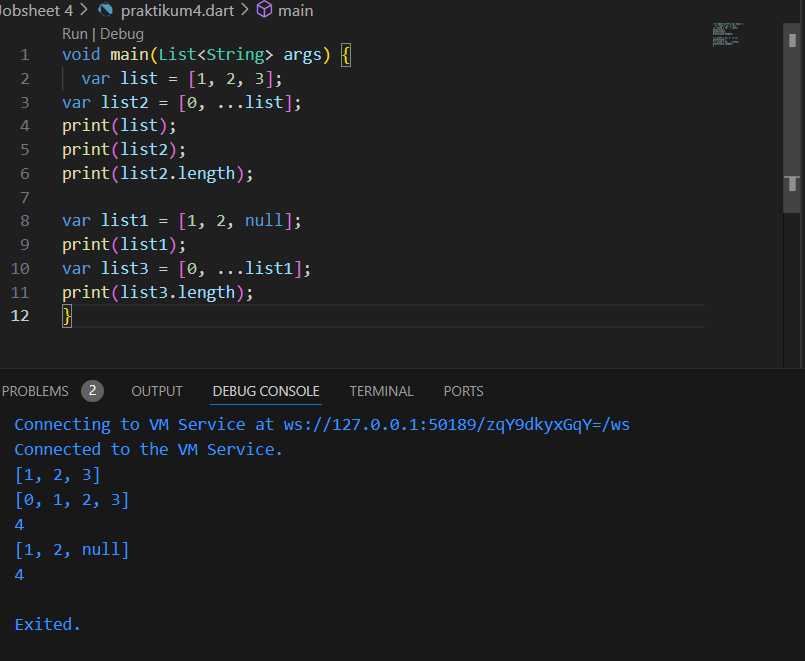
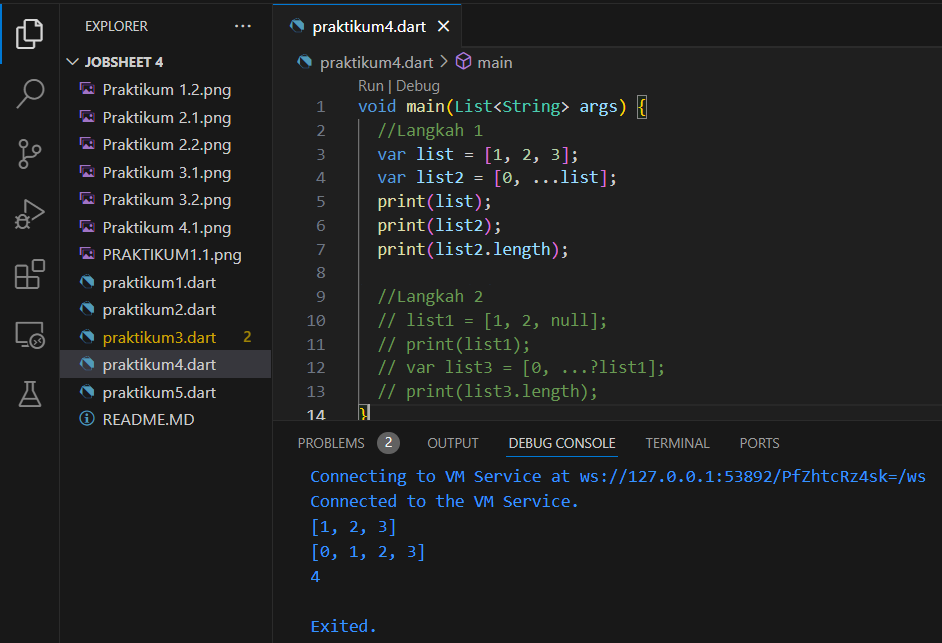
Perubahan yang benar

diff --git a/Jobsheet 4/praktikum4.dart b/Jobsheet 4/praktikum4.dart
@@ -1,12 +1,22 @@
 void main(List<String> args) {
+  //Langkah 1
   var list = [1, 2, 3];
-var list2 = [0, ...list];
-print(list);
-print(list2);
-print(list2.length);
+  var list2 = [0, ...list];
+  print(list);
+  print(list2);
+  print(list2.length);
 
-var list1 = [1, 2, null];
-print(list1);
-var list3 = [0, ...list1];
-print(list3.length);
+  //Langkah 3
+  var list1 = [1, 2, null];
+  print(list1);
+  var list3 = [0, ...list1];
+  print(list3.length);
+
+  var list4 = [2241720085, ...?list];
+  print(list4);
+
+  //Langkah 4
+  var promoActive = false;
+  var nav = ['Home', 'Furniture', 'Plants', if (promoActive) 'Outlet'];
+  print(nav);
 }

diff --git a/Jobsheet 4/praktikum5.dart b/Jobsheet 4/praktikum5.dart
@@ -1,0 +1,23 @@
+(int, int) tukar((int, int) record) {
+  var (a, b) = record;
+  return (b, a);
+}
+
+void main(List<String> args) {
+  var record = ('first', a: 2, b: true, 'last');
+  print(record);
+  var hasil = tukar((2, 3));
+  print(hasil);
+
+    // Record type annotation in a variable declaration:
+  (String, int) mahasiswa = ('Fajar Bayu Kusuma', 2241720085);
+  print(mahasiswa);
+
+  //Langkah 5
+  var mahasiswa2 = ('Fajar Bayu Kusuma', a: 2241720085, b: true, 'last');
+
+  print(mahasiswa2.$1); // Prints 'first'
+  print(mahasiswa2.a); // Prints 2
+  print(mahasiswa2.b); // Prints true
+  print(mahasiswa2.$2); // Prints 'last'
+}

diff --git a/Jobsheet 4/praktikum1.dart b/Jobsheet 4/praktikum1.dart
@@ -9,7 +9,8 @@ void main(List<String> args) {
   assert(list[1] == 1);
   print(list[1]);
 
-  List<String?> listA = List<String?>.filled(5, null); // Membuat list dengan 5 elemen yang nilainya null
+  List<String?> listA = List<String?>.filled(
+      5, null); // Membuat list dengan 5 elemen yang nilainya null
   listA[0] = 'Fajar Bayu Kusuma'; //indeks pertama dengan nama
   listA[1] = '2241720085'; //indeks kedua dengan NIM
 

diff --git a/Jobsheet 4/README.MD b/Jobsheet 4/README.MD
@@ -59,3 +59,58 @@ tidak terjadi eror, hasilnya seperti ini
 - Langkah 3 \
 Sintaks Code
  ![Praktikum 4](./Praktikum%203.2.png "Praktikum 4")
+ eror terjadi kerna tidak ada type data pada vriable list1, sehingga saat akan di running mengalama eror, lalu karena list ini memiliki nilai int yang pasti dan bilangan bulat, maka tidak perlu menggunakan tanda ? atau safety null.
+ Pembenaran Kode
+![Praktikum 4](./Praktikum%203.2.png "Praktikum 4")
+
+---
+**Praktikum 5**
+- Langkah 1 dan 2 \
+tidak terjadi eror, hasilnya seperti ini
+![Praktikum 5](./Praktikum%205.1.png "Praktikum 5")
+
+- Langkah 3 \
+Sintaks Code
+ ![Praktikum 5](./Praktikum%203.2.png "Praktikum 5")
+ eror terjadi kerna tidak ada type data pada vriable list1, sehingga saat akan di running mengalama eror, lalu karena list ini memiliki nilai int yang pasti dan bilangan bulat, maka tidak perlu menggunakan tanda ? atau safety null.
+ Pembenaran Kode
+![Praktikum 5](./Praktikum%203.2.png "Praktikum 5")
+
+---
+**2. Jelaskan yang dimaksud Functions dalam bahasa Dart!**
+---
+- Jawab Dalam bahasa Dart, Functions (fungsi) adalah blok kode yang dapat menerima argumen, melakukan operasi, dan mengembalikan nilai. Fungsi digunakan untuk mengorganisir dan mengelompokkan kode menjadi unit yang dapat digunakan dan dipanggil secara berulang.
+---
+**3. Jelaskan jenis-jenis parameter di Functions beserta contoh sintaksnya!**
+--
+- jawab Dalam bahasa Dart, terdapat dua jenis parameter yang dapat digunakan dalam deklarasi fungsi, yaitu parameter posisi (positional parameter) dan parameter bernama (named parameter).
+Parameter Posisi (Positional Parameter):
+
+- Parameter posisi adalah parameter yang dideklarasikan berdasarkan urutan posisinya saat memanggil fungsi.
+
+- Argumen yang dikirimkan saat memanggil fungsi akan diteruskan ke parameter posisi sesuai dengan urutan posisinya.
+
+- Parameter posisi bersifat wajib diisi saat memanggil fungsi, kecuali jika ada nilai default yang ditentukan.
+
+- Parameter Bernama (Named Parameter):
+
+- Parameter bernama adalah parameter yang dideklarasikan dengan menggunakan sintaks nama_parameter: nilai.
+
+- Ketika memanggil fungsi, argumen dikirimkan dengan menyebutkan nama parameternya, diikuti dengan tanda titik dua (:) dan nilai yang ingin diteruskan. Penggunaan parameter bernama bersifat opsional dan dapat diabaikan saat memanggil fungsi jika ada nilai default yang ditentukan.
+
+---
+**4. Jelaskan maksud Functions sebagai first-class objects beserta contoh sintaknya!**
+- jawaban 
+- Dalam bahasa pemrograman, konsep "first-class objects" (objek kelas satu) mengacu pada kemampuan untuk memperlakukan fungsi sebagai nilai yang dapat disimpan dalam variabel, dilewatkan sebagai argumen ke fungsi lain, dan dikembalikan sebagai nilai dari fungsi lain. Dalam konteks ini, fungsi diperlakukan seperti objek lainnya dalam bahasa tersebut.
+---
+**5. Apa itu Anonymous Functions? Jelaskan dan berikan contohnya!** 
+- jawab Anonymous functions, juga dikenal sebagai lambda functions atau function literals, adalah fungsi yang tidak memiliki nama.
+- penjelasan
+- tanda kurung kurawal {} dan kata kunci => untuk mendefinisikan anonymous function. Fungsi anonim tersebut menggandakan setiap elemen dalam list numbers dan mengembalikan hasilnya. Kemudian, metode toList() untuk mengonversi hasil iterable menjadi list, dan hasilnya dicetak menggunakan print().
+
+---
+**6. Apa itu Anonymous Functions? Jelaskan dan berikan contohnya!** 
+- Jawab Lexical scope dan lexical closures adalah konsep penting dalam pemrograman yang terkait dengan pengaturan dan akses variabel dalam suatu lingkup.
+- Lexical Scope: Lexical scope (lingkup leksikal) mengacu pada cara variabel diikat (bound) dalam sebuah program berdasarkan tempat atau posisi di dalam kode.
+---
+**7. Jelaskan dengan contoh cara membuat return multiple value di Functions!**
